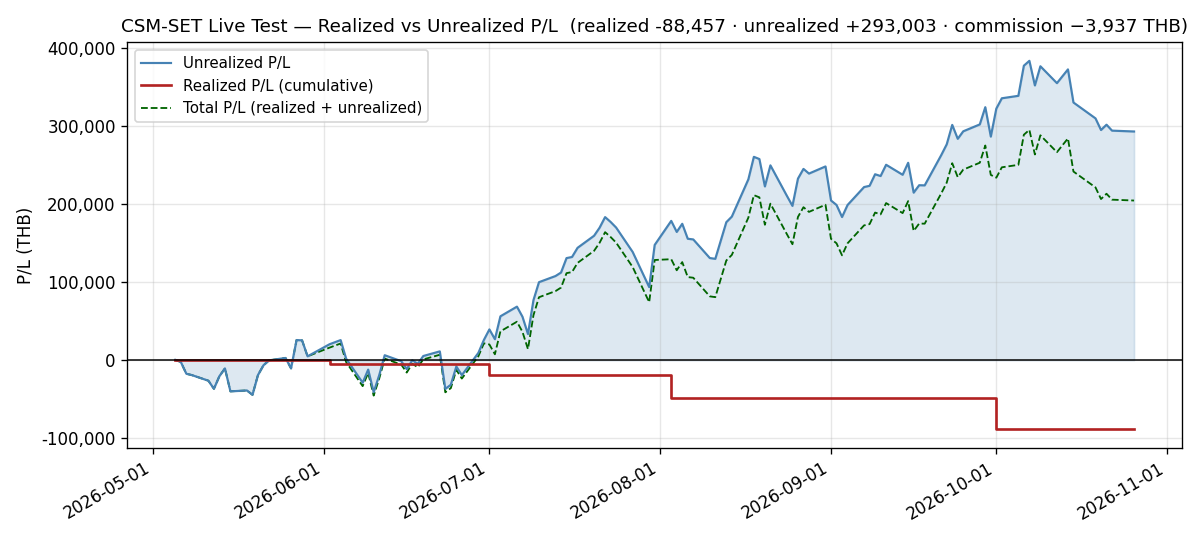
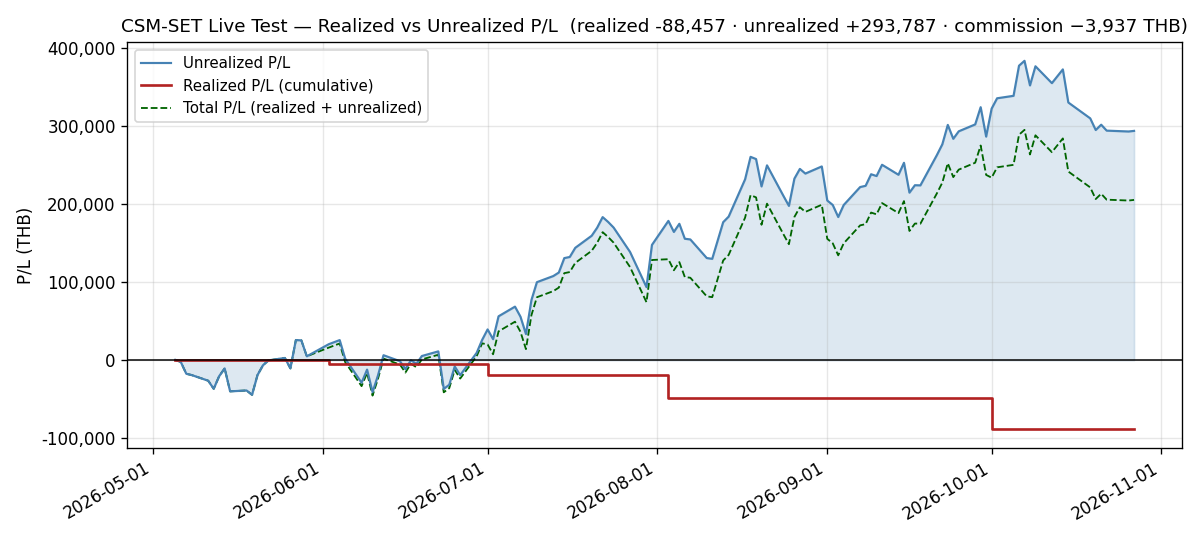
docs(live-test): add daily log for 2026-10-27 — NAV +0.06%, the first registered, not-yet-scored session; EASTW −6.30%, its worst since 2026-06-08
NAV 1,323,719.89 (+784.00, +0.0593%) with no trades against a SET that fell
−0.2540%. It stands 89,764.00 (−6.3505%) below the 2026-10-07 high; Total
Return on NAV is +18.19%. Breadth: 4 up, 3 down, 3 flat.

- EASTW −6.30% to 4.46: its worst session since 2026-06-08 and its lowest close
  since 2026-06-29, both inside its holding. U.PL is +4.52%.
- ETRON's excess widened to 17,838.04 THB, the widest since 2026-10-14.
- The status label is now "registered, not yet scored" (cc7bcb1; the window is
  2026-11-02 to 2026-12-30).
- The registered breaker procedure was run once before the window: NORMAL,
  −6.3505%, trip level 1,272,135.50; a −12% control trips.
- :8100 closed (8307ab3): Risk Note 11 ends its fifty-log carry.

pnl.csv extended to 118 rows. The P/L PNG was regenerated (d55ec0e3 →
bd61f364), the first render under Pillow 13.0.0; the three NAV PNGs are
byte-identical. Checker 389/0; 6 of 6 mutants caught (M5 after adding the
env/mount hash guard).

Claude-Session: https://claude.ai/code/session_01VKyqnmKmz6Hh9ErHRFMhFr

diff --git a/docs/live-test/daily/2026-10-27.md b/docs/live-test/daily/2026-10-27.md
@@ -1,0 +1,299 @@
+# Daily Log — 2026-10-27 (Tuesday)
+
+**As of:** 2026-10-27, Asia/Bangkok
+**Phase:** C — Extended Observation
+**Day:** 119 / 44 trading days remaining in 2026
+**Status:** 🟡 **REGISTERED, NOT YET SCORED.** The forward scoring pre-registration was committed on 2026-10-27, on the operator's go (`reports/2026-10-27-forward-scoring-pre-registration.md`, `cc7bcb1`). Its scored window is **2026-11-02 to 2026-12-30**, measured from the 2026-10-30 close, so **this session lies before it and is not scored**; every earlier figure stays pre-registration history, seen and not scored. **NAV closes at 1,323,719.89 THB, up +784.00 (+0.0593%)** with no trades, and stands **89,764.00 (−6.3505%) below the 2026-10-07 high**. Total Return on NAV is **+18.19%**. Breadth is **4 up, 3 down, 3 flat** against a SET that fell **−0.2540%**. 🔴 **EASTW fell −6.30% to 4.46, its worst session since 2026-06-08 and its lowest close since 2026-06-29, both inside its holding**, and its gain over cost narrowed to **+4.52%**. 🔴 **ETRON's excess widened to 17,838.04 THB, the widest since 2026-10-14.** 🟢 **`:8100` is closed**: the port has been bound to loopback since the 2026-10-27 06:15 BKK recreate.
+
+---
+
+## Execution Summary
+
+**No trades today.** The October rotation was executed at the **2026-10-01 ATO** (SELL MGC, BUY CNT; `configs/live_portfolio.yaml` at `715eeb3`), so the file is unchanged since then and remains valid. Realized P/L for the session is **0.00 THB** and no commission was paid. **Neither end of the band creates a trade, and neither does the sector cap**: both are applied when the book is constructed, and there is no high-water-mark rule. The next rebalance evaluation is **2026-10-30**, three sessions away, and it is **the first evaluation under the 2026-10-27 registration**.
+
+---
+
+## Portfolio Snapshot
+
+> 🟡 **Every figure in this section is REGISTERED, NOT YET SCORED.** The session lies before the scored window. It is produced from the **reconstructed series** (`csm.adapters.hooks._reconstruct_live_equity`, which reprices `configs/live_portfolio.yaml` against `data/processed/prices_latest.parquet`) and reconciled against **`db_gateway.daily_performance`**. Where a number below is quoted from a stored series, the series is named.
+
+`Avg Cost` is the commission-inclusive per-share basis carried from `configs/live_portfolio.yaml` (4-decimal precision); `Cost Basis = shares × Avg Cost`, and `U.PL % = MV / Cost Basis − 1`. Per-symbol values reproduce the broker statement exactly.
+
+| # | Symbol | Shares | Avg Cost | Last Price | Market Value (THB) | Cost Basis (THB) | U.PL % |
+|---|--------|-------:|---------:|-----------:|--------------------:|-----------------:|-------:|
+| 1 | KCE | 2,600 | 39.0655 | 69.75 | 181,350.00 | 101,570.30 | +78.55% |
+| 2 | GUNKUL | 30,800 | 2.9246 | 4.88 | 150,304.00 | 90,077.68 | +66.86% |
+| 3 | INSET | 42,000 | 3.0848 | 4.08 | 171,360.00 | 129,561.60 | +32.26% |
+| 4 | HANA | 3,000 | 35.8070 | 48.25 | 144,750.00 | 107,421.00 | +34.75% |
+| 5 | IRPC | 56,600 | 2.3037 | 2.92 | 165,272.00 | 130,389.42 | +26.75% |
+| 6 | EASTW | 24,000 | 4.2672 | 4.46 | 107,040.00 | 102,412.80 | +4.52% |
+| 7 | EPG | 17,300 | 5.9099 | 6.70 | 115,910.00 | 102,241.27 | +13.37% |
+| 8 | SMT | 20,400 | 5.8097 | 7.60 | 155,040.00 | 118,517.88 | +30.82% |
+| 9 | FORTH | 5,300 | 16.1270 | 14.20 | 75,260.00 | 85,473.10 | −11.95% |
+| 10 | CNT | 18,200 | 3.3456 | 3.08 | 56,056.00 | 60,889.92 | −7.94% |
+
+### Portfolio summary
+
+| Metric | Value |
+|--------|-------|
+| Total Cost Basis | 1,028,554.97 THB |
+| Total Market Value | 1,322,342.00 THB |
+| Unrealized P/L | +293,787.03 THB (+28.56%) |
+| Realized P/L (today) | **0.00 THB** |
+| Realized P/L (cumulative, since inception) | **−88,456.67 THB** |
+| Commission paid (cumulative) | **−3,936.97 THB** |
+
+### Account summary
+
+| Metric | Value |
+|--------|-------|
+| Remaining Cash | 1,377.89 THB |
+| Total NAV | 1,323,719.89 THB |
+| Total Return on NAV | +18.19% |
+
+> **Cost-basis note:** Total Cost Basis is unchanged at **1,028,554.97 THB** since the 2026-10-01 rotation, and the reconciliation delta against Σ per-symbol (`shares × avg_cost`, 4-dp) is **0.00 THB**.
+>
+> ⚠ **Above/below cost: 8 up / 2 down, unchanged**, with only **FORTH** and **CNT** below. 🔴 **EASTW's +4.52%** is its lowest since 2026-08-03 (4,627.20 THB above cost; it goes below cost at **4.2672, −4.32%**); **GUNKUL's +66.86%** is its lowest since 2026-09-16 and **EPG's +13.37%** its lowest since 2026-10-21. 🟢 **SMT's +30.82%** and **IRPC's +26.75%** are their highest since 2026-10-14, **HANA's +34.75%** its highest since 2026-10-22, and **FORTH's −11.95%** its highest since 2026-10-08.
+>
+> **Dispersion narrowed to 90.50pp** (KCE +78.55% to FORTH −11.95%), from 94.22pp, **the narrowest since 2026-08-07**: the leader KCE was unchanged and the laggard FORTH gained **3.72pp** of cost.
+>
+> **Total P/L check:** realized + unrealized = −88,456.67 + 293,787.03 = **+205,330.36 THB**, up from +204,546.36 by exactly the +784.00 session move.
+
+---
+
+## Day-over-Day Change (vs Monday October 26)
+
+| Symbol | Oct 26 Close | Oct 27 Close | Change | Change % | MV Contribution (THB) |
+|--------|-------------:|-------------:|-------:|---------:|----------------------:|
+| SMT | 7.35 | 7.60 | +0.25 | +3.40% | +5,100.00 |
+| FORTH | 13.60 | 14.20 | +0.60 | +4.41% | +3,180.00 |
+| IRPC | 2.88 | 2.92 | +0.04 | +1.39% | +2,264.00 |
+| HANA | 47.50 | 48.25 | +0.75 | +1.58% | +2,250.00 |
+| KCE | 69.75 | 69.75 | 0.00 | 0.00% | 0.00 |
+| INSET | 4.08 | 4.08 | 0.00 | 0.00% | 0.00 |
+| CNT | 3.08 | 3.08 | 0.00 | 0.00% | 0.00 |
+| EPG | 6.80 | 6.70 | -0.10 | -1.47% | -1,730.00 |
+| GUNKUL | 4.98 | 4.88 | -0.10 | -2.01% | -3,080.00 |
+| EASTW | 4.76 | 4.46 | -0.30 | -6.30% | -7,200.00 |
+| **Total** | | | | **+0.06%** | **+784.00** |
+
+**Breadth: 4 up, 3 down, 3 flat.**
+
+> The `Change %` on the Total row is the **market-value** change (+784.00 / 1,321,558.00 = +0.0593%). The NAV change (+784.00 / 1,322,935.89) is also **+0.0593%**: the two agree to four decimals today, because cash is only 1,377.89 of the NAV denominator.
+
+**The risers' +12,794.00 outweighed the fallers' −12,010.00.**
+
+- **Risers:**
+  - **SMT +3.40% (+5,100.00)**, its best session since 2026-10-14, at its highest close since 2026-10-14;
+  - **FORTH +4.41% (+3,180.00)**, its best since 2026-10-06, at its highest since 2026-10-08;
+  - **IRPC +1.39% (+2,264.00)**, its third straight rise, at its highest since 2026-10-14;
+  - **HANA +1.58% (+2,250.00)**, its best since 2026-10-21, at its highest since 2026-10-22.
+- **Unchanged:** **KCE at 69.75**, **INSET at 4.08** and **CNT at 3.08**, three flat names for the first time since 2026-10-19.
+- **Fallers:**
+  - **EASTW −6.30% (−7,200.00)**: its worst session since 2026-06-08 and its lowest close since 2026-06-29. It entered the book at the 2026-06-02 ATO, so both are inside its holding;
+  - **GUNKUL −2.01% (−3,080.00)**, its worst since 2026-10-08, at its lowest since 2026-09-16;
+  - **EPG −1.47% (−1,730.00)**, its worst since 2026-10-15, at its lowest since 2026-10-21.
+
+**The book rose +0.0593% against a SET that fell −0.2540%**, a **+0.3133pp** difference. That is a same-session arithmetic result, not a performance comparison (Market Context).
+
+---
+
+## Market Context
+
+| Indicator | Value | Source |
+|-----------|-------|--------|
+| SET Index | 1,575.02 | tvkit (TradingView) |
+| SET Open / High / Low | 1,585.14 / 1,586.61 / 1,572.19 | tvkit |
+| SET 200-day SMA | 1,508.6505 | tvkit (TradingView) |
+| Regime Estimate | BULL | SET +4.40% above SMA200 |
+
+> ⚠ **This is context, NOT a benchmark comparison, and it must not be read as one.**
+>
+> - **Different price bases.** `SET:SET` is a **price index**; the strategy series above is priced on **dividend-adjusted** bars (since `e04a292`, 2026-08-09). The difference is one-sided in the strategy's favour, and it is not small: measured 2026-09-11 over 2024-03-19 → 2026-09-10, the dividend adjustment is worth **+12.09 percentage points** on this universe, roughly **+4.8%/yr**.
+> - **Different windows.** The engine's own benchmark loader is given **no date bounds**. It compares **600 index points**, from 2024-05-07 in today's panel and a start that moves forward one session per session, against a strategy series that starts at the 2026-10-01 `entry_date`.
+> - **No alpha, excess return or outperformance figure is computed anywhere in this log.** The 2026-10-27 registration measures tracking error against this index only inside the scored window, and labels it a risk metric (§5).
+
+---
+
+## Regime State
+
+- **Detected regime:** BULL — SET (1,575.02) is above SMA200 (1,508.6505) by +4.3993%
+- **SMA200 position:** 1,508.6505 — SET closing at 1,575.02
+- **3-month return:** −4.31% (window-sensitive — see Notes)
+- **No regime-driven action.** The regime filter is evaluated at the month-end rebalance, not intra-month. The next evaluation is **2026-10-30**. Under the 2026-10-27 registration the index EMA100 overlay is **not applied**, and its condition is reported at each evaluation (registration §4).
+
+**The SET path from the 2026-09-08 high reads 1,621.89 → 1,617.89 → 1,615.07 → 1,604.52 → 1,591.07 → 1,578.66 → 1,562.73 → 1,583.34 → 1,584.15 → 1,598.03 → 1,604.44 → 1,610.70 → 1,602.58 → 1,607.63 → 1,602.37 → 1,594.30 → 1,559.01 → 1,563.91 → 1,571.62 → 1,576.45 → 1,582.22 → 1,584.63 → 1,570.61 → 1,577.65 → 1,571.74 → 1,575.88 → 1,573.01 → 1,571.72 → 1,554.94 → 1,556.09 → 1,562.67 → 1,579.03 → 1,575.02**.
+
+- **Today:** a **−4.01 point, −0.2540%** session, the index's worst since 2026-10-20. It closed at its lowest since 2026-10-22, **−2.8898%** below the 2026-09-08 high.
+- **Range:** **14.42 points**, against 20.63 the prior session. The index opened at 1,585.14, above the prior close, reached 1,586.61, and closed 11.59 points off that high.
+- **Cushion fell 4.7728% → 4.3993%, a −0.3735pp step**: the largest one-session narrowing since 2026-10-20, leaving the cushion its narrowest since 2026-10-22. SMA200 rose again to **1,508.6505** (+1.5512).
+- **A BULL→BEAR crossing needs the index 66.37 points lower**, a further −4.21% at today's SMA200.
+
+The 3-month figure fell from −3.66% to −4.31%, its start bar moving from 2026-07-17 (1,639.04) to 2026-07-20 (1,646.00).
+
+---
+
+## Sector Concentration
+
+Groupings are those of the 2026-10-01 rotation (CONS for CNT, SET-official) and are unchanged today; percentages are directly comparable to the prior session for every sleeve.
+
+| Sector | Market Value (THB) | % of NAV | Limit | Status |
+|--------|--------------------:|---------:|-------|--------|
+| Energy & Utilities (ENERG) | 422,616 | 31.9264% | 35% | OK — 40,685.96 THB of headroom |
+| Electronic Components (ETRON) | 481,140 | 36.3476% | 35% | 🔴 **OVER — 17,838.04 THB, accepted known violation** |
+| ICT | 246,620 | 18.6308% | 35% | OK |
+| Construction Materials (CONMAT) | 115,910 | 8.7564% | 35% | OK |
+| Construction Services (CONS) | 56,056 | 4.2347% | 5% floor | 🔴 **UNDER — 10,129.99 THB, accepted known violation** |
+
+🔴 **ETRON's excess widened to 17,838.04 THB, its widest since 2026-10-14**, from 10,762.44 on 2026-10-26.
+
+- It rose **+0.5341pp to 36.3476%**, its highest weight since 2026-10-14.
+- The sleeve's market value rose 7,350.00 (SMT +5,100.00, HANA +2,250.00, KCE unchanged) while the cap rose only 274.40 with NAV.
+- **It widened by gaining value, not by a trade.** [[TK-0279]]
+
+🔴 **CNT's gap widened to 10,129.99 THB, its widest since 2026-10-22**, from 10,090.79.
+
+- CNT was unchanged at 3.08. The gap grew by **exactly the 39.20** by which the floor rose with NAV.
+- **CONS fell −0.0025pp to 4.2347%**, its lowest since 2026-10-22.
+- **CNT clears at 3.6659, +19.02%.** [[TK-0279]]
+
+**The other sleeves:**
+
+- **ENERG fell −0.6248pp to 31.9264%**, its lowest since 2026-10-14. EASTW (−7,200.00) and GUNKUL (−3,080.00) outweighed IRPC (+2,264.00).
+- **ICT rose +0.2293pp to 18.6308%** on FORTH, with INSET unchanged; its highest since 2026-10-21.
+- **CONMAT fell −0.1359pp to 8.7564%** on EPG; its lowest since 2026-10-21.
+- The two large sleeves hold **68.2740% of NAV** together.
+
+**At the ceiling end, KCE remains the largest position:**
+
+| Name | Weight | Inside the 15% ceiling | Goes over at |
+|---|---:|---:|---|
+| KCE | 13.7000% | 17,207.98 THB | 77.5364 (+11.16%) |
+| INSET | 12.9453% | 27,197.98 THB | 4.8418 (+18.67%) |
+
+KCE leads INSET by 9,990.00 THB, unchanged because both were flat. 🟢 **At the floor end, FORTH is 5.6855%**, its highest weight since 2026-09-30. It is 9,074.01 THB above the 5% floor and goes under at **12.3978 (−12.69%)**.
+
+---
+
+## Risk Notes
+
+1. 🟡 **SCORING PRE-REGISTERED 2026-10-27 — operator's go.** The registration is `reports/2026-10-27-forward-scoring-pre-registration.md`, committed as `cc7bcb1`.
+   - **Scored window:** 2026-11-02 to 2026-12-30, 41 sessions by the banked calendar, anchored on the 2026-10-30 close.
+   - **Thresholds:** PLAN.md's eight criteria and six primary metrics, unchanged.
+   - **EMA100 (D1):** registered **per holding**. A holding whose evaluation close is below its own EMA100 is sold at the ATO; the index overlay is not applied.
+   - **Amendments:** every item marked *CHOSEN HERE* is open to operator amendment until the **2026-10-30 evaluation, three sessions away**.
+   - **This session is registered, not yet scored.**
+2. **NAV rose +784.00 (+0.0593%) to 1,323,719.89** (`daily_performance`).
+   - It stands **89,764.00 (−6.3505%) below the 2026-10-07 high**.
+   - It is **28,491.00 below the book's 2026-10-01 post-rotation value** (1,352,210.89, `equity_curve`).
+   - Total Return on NAV is **+18.19%**.
+3. 🔴 **ACCEPTED KNOWN VIOLATION — ETRON 36.3476%, 17,838.04 THB over the 35% cap** (operator decision D2), **its widest excess since 2026-10-14**. It widened from 10,762.44 without a trade, as SMT and HANA rose. **No action is recommended and none has been sized.** Under the registration, bounds bind at construction on the names being traded (§8). [[TK-0279]]
+4. 🔴 **ACCEPTED KNOWN VIOLATION — CNT 4.2347%, 10,129.99 THB under the 5% floor and the whole CONS sleeve** (D2), **its widest gap since 2026-10-22**. CNT was unchanged, and the floor rose 39.20 with NAV. CNT clears at **3.6659 (+19.02%)**. [[TK-0279]]
+5. 🔴 **EASTW −6.30% to 4.46: its worst session since 2026-06-08 and its lowest close since 2026-06-29**, both inside its holding (entered at the 2026-06-02 ATO).
+   - Its U.PL fell to **+4.52%**, the lowest since 2026-08-03. It goes below cost at **4.2672 (−4.32%)**.
+   - **The prior close is unrestated in today's panel** (4.76, as published on 2026-10-26), so today's fetch carried no vendor back-adjustment for EASTW.
+   - The "since" dates are measured on the panel's dividend-adjusted series.
+   - **No exit rule acts intra-month.** The registered rules evaluate EASTW at **2026-10-30** like every other holding: rank floor, buffer, and its own EMA100.
+6. 🟢 **`equity_curve` and `daily_performance` agree on the new day**, both **1,323,719.89**. The 2026-10-01 rows still differ by 2,385.81 by design (post-trade against pre-trade).
+7. 🟢 **Today's `daily_return` (+0.0593%) equals this log's headline.**
+   - ⚠ `cumulative_return` is anchored to the 2026-10-01 `entry_date` and reads **−2.11%** against a true **+18.19%**; its anchor is the post-rotation value of Risk Note 2.
+   - `combined_drawdown` reads **−6.41%**: the maximum drawdown inside the post-`entry_date` window, unchanged since it was set on 2026-10-26.
+   - Both are the documented truncations, not new defects.
+8. 🟢 **Circuit breaker — the design rule is clear, and the registered procedure was run once before the window.**
+   - **Procedure:** `DrawdownCircuitBreaker` with the recorded parameters (60 sessions, −10% trip, −5% recovery over 21 sessions), run on the `daily_performance` NAV series. It returns **NORMAL**, with a rolling drawdown of **−6.3505%**.
+   - **Trip level:** **1,272,135.50**, which is 90% of the 2026-10-07 peak. NAV sits **51,584.39** above it.
+   - **Positive control:** a synthetic −12% final close tripped it to TRIPPED at 0.20 equity.
+   - **The 1,064,000 THB line** (5% below `starting_nav`) has NAV **+259,719.89** (19.62%) above it. Under the registration it is a reporting line and carries no action (§6 #8).
+9. 🟢 **The refresh ran clean.**
+   - Attempt 1 recovered all 201 universe symbols (`requested=201 recovered=201 still_failing=0`) in **135.475s**, and **no symbol failed** (`failures=0`, `held_symbols_failed=0`).
+   - **The container was recreated at 2026-10-27 06:15 BKK** to close `:8100` (Risk Note 11). Image, environment and mounts are unchanged, compared by hash. It has not restarted since, and the 18:00 firing ran on schedule.
+10. 🟢 **The uncredited dividend total holds at 8,927.00 THB**: KCE 1,560.00, INSET 2,100.00, MGC 2,208.00, FORTH 795.00, IRPC 2,264.00.
+    - That is **0.67% of NAV** and **4.35%** of the +205,330.36 total P/L.
+    - There is still no dividend-accrual path in the book. The registration leaves dividends uncredited in the scored series and reports them beside each score (§8).
+11. 🟢 **INFRA — CLOSED: `:8100` is bound to loopback.** This closes the item that fifty consecutive logs carried.
+    - The compose file publishes `127.0.0.1:8100:8000` since csm-set `8307ab3`, deployed by the 2026-10-27 06:15 BKK recreate.
+    - The listener is `127.0.0.1:8100` only. The LAN address is refused, while another service's port answers from the LAN (the positive control).
+    - `CSM_API_KEY` is still absent and `CSM_PUBLIC_MODE=false`, so the API is unauthenticated for anything on this host. Containers on `quant-network` reach it by name on `:8000`, which the change did not touch.
+12. ⚠ **DOC — the `csm-set-daily-log` skill's `daily_return` guidance remains stale.**
+    - Its Step 3 still calls the field *"an open defect, not yet fixed in code"*; **it was fixed 2026-09-02**.
+    - Today `daily_return` reads **+0.0593%** and agrees with this log's headline exactly.
+    - **Thirty-third log to carry this.**
+13. **Open decisions — answered for the scored window only, by the registration's §8.**
+
+    | Decision | Registered for the window |
+    |---|---|
+    | EMA100 | per holding |
+    | Bands | bind at construction, on the names being traded |
+    | Sizing | current proceeds-plus-cash practice (`fix-notional-not-shares`) |
+    | Price history | the published NAV, frozen at publication |
+    | Dividends | not credited, reported beside each score |
+
+    The wider questions stay open where they are filed ([[TK-0279]], [[TK-0570]], the event reports).
+
+---
+
+## Notes
+
+- **Scheduled refresh completed via APScheduler with zero failures.**
+  - `"Scheduled daily_refresh completed"` at **2026-10-27T11:02:18Z** (18:02 BKK).
+  - It was the 18:00 cron firing (`cron[... day_of_week='mon-fri', hour='18', minute='0']`, started 11:00:00Z), not a manual `POST /api/v1/scheduler/run/daily_refresh`.
+  - Receipt: `symbols_fetched=211, failures=0, duration_seconds=135.475, held_symbols_fetched=10, held_symbols_failed=0, retry_attempts_used=0, index_fetched=true`, corroborated by `results/.tmp/last_refresh.json`.
+  - The held phase ended `requested=10 recovered=10 still_failing=0` at 11:00:17Z.
+  - The next run is scheduled for **2026-10-28 18:00 +07**.
+- **The container was recreated at 2026-10-27 06:15 BKK.**
+  - `Created` 2026-10-26T23:15:19Z, `StartedAt` 23:15:37Z, `RestartCount` 0. `FinishedAt` is unset (0001-01-01) because this container has never stopped; the registration asks for it from 2026-11-02 and it is recorded from today.
+  - Image `e71f1e0b9d6c`, unchanged. The 2026-10-27 dependency-lock update (`059c009`) is not in the running image, which was not rebuilt.
+  - The scheduler started at 23:16:10Z, and the holiday poll ran 30 seconds later and has completed every firing since.
+  - The host has not rebooted since 2026-10-06 (`uptime -s` 2026-10-06 10:46:02).
+- **`SET:THCOM` was fetched with 600 bars again.**
+- **The price panel and the prior log agree on all ten names**, so **nothing was restated**.
+- **The panel's row count fell 912 → 911.** Every row still carries a 09:55 Bangkok stamp, the column count is unchanged at **211**, and no session date is duplicated.
+- **Row-integrity checks pass.** `db_csm_set.equity_curve` holds **exactly one row per trading day at `00:00:00+00`** (118 rows, 118 dates, none off midnight), and today's row equals `daily_performance.total_value`.
+- **`configs/live_portfolio.yaml` is unchanged** since the 2026-10-01 rotation (`715eeb3`).
+- **The P/L identity holds and its residual is unchanged.** `realized_cum + unrealized − (NAV − starting_nav)` = −88,456.67 + 293,787.03 − 203,719.89 = **1,610.47 THB**, the value it stepped to at the 2026-10-01 rotation.
+- **Every figure was verified rather than asserted.**
+  - Σ position market value equals Total Market Value exactly (1,322,342.00).
+  - **Total NAV (1,323,719.89) equals `db_gateway.daily_performance.total_value` to the satang.**
+  - Σ (shares × price change) equals the market-value change (+784.00) exactly.
+  - The sector table sums to Total Market Value exactly.
+  - Σ per-symbol cost basis matches Total Cost Basis with a **0.00** delta, and the position count is 10.
+  - All money arithmetic used `Decimal` with explicit half-up rounding, and so did SMA200:
+
+    | Name | Weight | Distance | Level |
+    |---|---:|---|---|
+    | ETRON | 36.3476% | 17,838.04 THB over the cap | — |
+    | CNT | 4.2347% | 10,129.99 THB under a 66,185.99 floor | clears at 3.6659 |
+    | FORTH | 5.6855% | — | under at 12.3978 |
+    | KCE | 13.7000% | — | over at 77.5364 |
+    | INSET | 12.9453% | — | over at 4.8418 |
+- **Realized P/L and commission ledger — both unchanged, no trades today.** Realized cumulative **−88,456.67 THB** (2026-06-02 −4,351.87 · 2026-07-01 −14,964.06 · 2026-08-03 −29,775.45 · 2026-10-01 −39,365.29). Commission cumulative **−3,936.97 THB**.
+- **Capital events to date, unchanged.** `starting_nav` 1,120,000 after 1,000,000 → 1,100,000 (2026-06-04, +100,000) → 1,120,000 (2026-08-03, +20,000). The 2026-10-01 rotation added no capital.
+- **Every superlative was computed, and each names its window.**
+
+  | Claim | Window | Source |
+  |---|---|---|
+  | Best-, worst-, highest- and lowest-since dates of the named stocks; U.PL readings; ETRON, ENERG, ICT, CONMAT and FORTH weight readings; the dispersion | since 2026-08-03 | all 57 prior published logs; for prices, the panel from 2026-08-03 |
+  | EASTW's session and its low close | since its 2026-06-02 entry | the panel |
+  | CNT's gap, CONS's weight | the breach that began 2026-10-01 | published logs |
+  | NAV figures, the drawdown, the post-rotation value | full series | `db_gateway.daily_performance`, `db_gateway.portfolio_snapshot`, `db_csm_set.equity_curve` |
+  | Index figures | bars fetched back to 2024-09-03 | tvkit |
+- **3-month return figure is window-sensitive.** −4.31% is measured over the trailing 66 bars from today's close (start bar 2026-07-20, 1,646.00) and moves materially with the start bar (Regime State). The regime estimate does not use it.
+- **Follow-ups for the next session (Wednesday 2026-10-28 18:00 +07).**
+
+  | | Item | Level |
+  |---|---|---|
+  | (a) | ETRON against the 35% cap | 17,838.04 THB over |
+  | (b) | CNT against the 5% floor | clears at 3.6659 |
+  | (c) | the ceiling | KCE over at 77.5364, INSET over at 4.8418 |
+  | (d) | FORTH against the 5% floor | under at 12.3978 |
+  | (e) | EASTW against its cost | 4.2672 |
+  | (f) | the regime cushion | 66.37 points above a crossing |
+  | (g) | operator amendments to the registration | before the 2026-10-30 evaluation |
+
+  **The five follow-ups from 2026-10-26 are closed above:** (a) Risk Note 3, (b) Risk Note 4, (c) and (d) Sector Concentration, (e) Regime State.
+- **Calendar.** 2026-10-27 was a trading session.
+  - The banked SET holiday calendar is `results/.tmp/set_holidays.json`, read at `captured_at 2026-10-27T09:46:40Z`, its last successful capture.
+  - It lists the next 2026 closures as **2026-12-07** and **2026-12-10**.
+  - The October evaluation, October's last trading day, is **2026-10-30**.
+  - No trading hours are stated anywhere in this log.
+- Data fetched via tvkit (TradingView, free tier): all 10 held-symbol prices from the 18:00 BKK scheduled-cron refresh; SET Index context anchored explicitly to the 2026-10-27 bar. ⚠ **The vendor back-adjusts a symbol's entire history on an ex-dividend date**, so any prior-session price quoted here is the vendor's *current* view of that session and not necessarily what was published at the time.

diff --git a/docs/live-test/graphs/README.md b/docs/live-test/graphs/README.md
@@ -3,7 +3,7 @@
 _🟢 **All four PNGs are on ONE date — the September month-end, 2026-09-30.** The three **NAV** charts
 (`equity_curve`, `drawdown`, `monthly_returns`) were regenerated on 2026-09-30 from `nav_actual.csv` /
 `nav_twr.csv` extended to **102 points** (2026-05-04 → 2026-09-30). `pnl_realized_unrealized.png` is newer:
-regenerated on 2026-10-26 from `pnl.csv` (**117 rows**, through 2026-10-26; its newest realized step is the 2026-10-01 rotation's). ⚠ **The September rows of the two NAV CSVs
+regenerated on 2026-10-27 from `pnl.csv` (**118 rows**, through 2026-10-27; its newest realized step is the 2026-10-01 rotation's). ⚠ **The September rows of the two NAV CSVs
 come from `db_gateway.daily_performance`, not `equity_curve`** — IRPC's 2026-09-09 restatement rewrote the
 `equity_curve` rows it would otherwise have supplied; see the 2026-09-30 History entry. `pnl.csv` is built
 from the daily logs' figures (the un-restated `daily_performance` basis), so it does not agree with
@@ -241,14 +241,30 @@ restatement has rewritten `equity_curve` rows inside the month being appended, *
 | `monthly_returns.png` | May **+0.33%** · Jun **+1.44%** · Jul **+9.53%** · Aug **+5.68%** · Sep **+2.90%** (no flow in September, so the TWR and actual-NAV figures agree) |
 | **August bar is the TWR figure** | **+5.68%**, NOT the reported +7.40% and NOT the ex-injection +5.77%. Feeding `nav_actual.csv` instead reproduces the documented failure mode — **Jun +11.62%** and Aug +7.40% |
 | June bar vs the June review | must read **+1.44%**, not +11.62% |
-| `pnl_realized_unrealized.png` *(the 2026-10-26 PNG, through 10-26)* | realized **−88,456.67** · unrealized **+293,003.03** · commission **−3,936.97** THB; the realized line is **flat except at 2026-06-02, 2026-07-01, 2026-08-03 and 2026-10-01** — **four** steps. *(The 2026-10-22 PNG read the same realized and commission with unrealized +294,101.03 at 116 points; the 2026-10-21 PNG read the same realized and commission with unrealized +301,696.03 at 115 points; the 2026-10-20 PNG read the same realized and commission with unrealized +294,904.03 at 114 points; the 2026-10-19 PNG read the same realized and commission with unrealized +309,815.03 at 113 points; the 2026-10-15 PNG read the same realized and commission with unrealized +330,143.03 at 112 points; the 2026-10-14 PNG read the same realized and commission with unrealized +372,572.03 at 111 points; the 2026-10-12 PNG read the same realized and commission with unrealized +354,949.03 at 110 points; the 2026-10-09 PNG +376,567.03 at 109; the 2026-10-08 PNG +352,021.03 at 108; the 2026-10-07 PNG +383,551.03 at 107; the 2026-10-06 PNG +377,303.03 at 106; the 2026-10-05 PNG +338,709.03 at 105; the 2026-10-02 PNG +335,559.03 at 104; the 2026-10-01 PNG +322,278.03 at 103.)* *(The 2026-08-31 PNG read:* realized **−49,091.38** · unrealized **+248,232.35** · commission **−3,735.16** THB; the realized line is **flat except at 2026-06-02, 2026-07-01 and 2026-08-03** — **three** steps.) *(The superseded 2026-08-28 render showed −49,091.38 / +239,078.35 at 79 points; the 2026-08-27 one showed −49,091.38 / +245,069.35 at 78 points; the 2026-08-26 one showed −49,091.38 / +232,605.35 at 77 points; the 2026-08-25 one showed −49,091.38 / +197,671.35 at 76 points; the 2026-08-24 one showed −49,091.38 / +210,441.35 at 75 points; the 2026-08-21 one showed −49,091.38 / +249,619.35 at 74 points; the 2026-08-20 one showed −49,091.38 / +222,599.35 at 73 points; the 2026-08-19 one showed −49,091.38 / +257,693.35 at 72 points; the 2026-08-18 one showed −49,091.38 / +260,527.35 at 71 points; the 2026-08-17 one showed −49,091.38 / +231,713.35 at 70 points; the 2026-08-14 one −49,091.38 / +183,951.35 at 69 points; the 2026-08-12 one −49,091.38 / +129,844.35 at 67 points; the 2026-08-01 one −19,315.93 / +147,665.89 / −3,052.51 and only two steps.)* |
-| `pnl.csv` last row *(the CSV and the P/L PNG are in sync — see the header)* | 2026-10-26: realized **−88,456.67** · unrealized **+293,003.03** · total **+204,546.36** · commission **3,936.97** THB; **117 rows**, matching `equity_curve`'s 117 **in row count only** *(↻ this row read 2026-08-31 / 80 rows until 2026-10-02: the September daily runs extended the CSV without updating it; it is updated with each session's History entry since)* — the values diverge historically after the KCE, INSET, MGC *and* FORTH restatements (see the header caveat) |
+| `pnl_realized_unrealized.png` *(the 2026-10-27 PNG, through 10-27)* | realized **−88,456.67** · unrealized **+293,787.03** · commission **−3,936.97** THB; the realized line is **flat except at 2026-06-02, 2026-07-01, 2026-08-03 and 2026-10-01** — **four** steps. *(The 2026-10-26 PNG read the same realized and commission with unrealized +293,003.03 at 117 points; the 2026-10-22 PNG read the same realized and commission with unrealized +294,101.03 at 116 points; the 2026-10-21 PNG read the same realized and commission with unrealized +301,696.03 at 115 points; the 2026-10-20 PNG read the same realized and commission with unrealized +294,904.03 at 114 points; the 2026-10-19 PNG read the same realized and commission with unrealized +309,815.03 at 113 points; the 2026-10-15 PNG read the same realized and commission with unrealized +330,143.03 at 112 points; the 2026-10-14 PNG read the same realized and commission with unrealized +372,572.03 at 111 points; the 2026-10-12 PNG read the same realized and commission with unrealized +354,949.03 at 110 points; the 2026-10-09 PNG +376,567.03 at 109; the 2026-10-08 PNG +352,021.03 at 108; the 2026-10-07 PNG +383,551.03 at 107; the 2026-10-06 PNG +377,303.03 at 106; the 2026-10-05 PNG +338,709.03 at 105; the 2026-10-02 PNG +335,559.03 at 104; the 2026-10-01 PNG +322,278.03 at 103.)* *(The 2026-08-31 PNG read:* realized **−49,091.38** · unrealized **+248,232.35** · commission **−3,735.16** THB; the realized line is **flat except at 2026-06-02, 2026-07-01 and 2026-08-03** — **three** steps.) *(The superseded 2026-08-28 render showed −49,091.38 / +239,078.35 at 79 points; the 2026-08-27 one showed −49,091.38 / +245,069.35 at 78 points; the 2026-08-26 one showed −49,091.38 / +232,605.35 at 77 points; the 2026-08-25 one showed −49,091.38 / +197,671.35 at 76 points; the 2026-08-24 one showed −49,091.38 / +210,441.35 at 75 points; the 2026-08-21 one showed −49,091.38 / +249,619.35 at 74 points; the 2026-08-20 one showed −49,091.38 / +222,599.35 at 73 points; the 2026-08-19 one showed −49,091.38 / +257,693.35 at 72 points; the 2026-08-18 one showed −49,091.38 / +260,527.35 at 71 points; the 2026-08-17 one showed −49,091.38 / +231,713.35 at 70 points; the 2026-08-14 one −49,091.38 / +183,951.35 at 69 points; the 2026-08-12 one −49,091.38 / +129,844.35 at 67 points; the 2026-08-01 one −19,315.93 / +147,665.89 / −3,052.51 and only two steps.)* |
+| `pnl.csv` last row *(the CSV and the P/L PNG are in sync — see the header)* | 2026-10-27: realized **−88,456.67** · unrealized **+293,787.03** · total **+205,330.36** · commission **3,936.97** THB; **118 rows**, matching `equity_curve`'s 118 **in row count only** *(↻ this row read 2026-08-31 / 80 rows until 2026-10-02: the September daily runs extended the CSV without updating it; it is updated with each session's History entry since)* — the values diverge historically after the KCE, INSET, MGC *and* FORTH restatements (see the header caveat) |
 | The August regeneration *(**done** 2026-08-12, **superseded** by the 2026-08-14, 2026-08-17, 2026-08-18, 2026-08-19, 2026-08-20, 2026-08-21, 2026-08-24, 2026-08-25, 2026-08-26, 2026-08-27, 2026-08-28 and then the 2026-08-31 render)* | ✅ satisfied — the current PNG title reads `realized -49,091 · unrealized +248,232 · commission −3,735 THB`, the series ends 2026-08-31 at 80 points, and the realized line steps **three** times. Verified by eye against the rendered image, not only from the generator's stdout |
 | Only ONE PNG may change on a P/L regeneration | ✅ `gen_pnl_chart.py:118` writes `pnl_realized_unrealized.png` and nothing else. Checksum the four PNGs before and after: the three NAV charts must be **byte-identical** and keep their 2026-08-01 mtimes. Verified 2026-08-14, 2026-08-17, 2026-08-18, 2026-08-19, 2026-08-20, 2026-08-21, 2026-08-24, 2026-08-25, 2026-08-26, 2026-08-27, 2026-08-28 and 2026-08-31 — only the P/L PNG's hash moved on all twelve |
 | P/L reconciliation | `realized_cum + unrealized − (NAV − capital)` = **1,610.47** from 2026-10-01 (**1,610.27** for 2026-08-03 → 2026-09-30, **1,609.61** for 2026-05-29 → 2026-07-31), and constant *within* each era; the 2026-10-01 step is **+0.20**, CNT's 4-dp `avg_cost` rounding. A *drifting* residual means a realisation was missed; the one-time **+0.66** step at the rotation is 4-dp `avg_cost` rounding — see above |
 | `commission_cum` | rises **only on the 7 fill dates** (05-05, 06-02, 06-04, 06-05, 07-01, 08-03, **10-01**); a rise on any other day means a non-trading day was credited with a fill |
 
 ## History
+
+**`pnl.csv` extended through 2026-10-27** on 2026-10-27, appending the **2026-10-27** row — one row,
+the fifteenth session of the rotated book. `realized_cum` and `commission_cum` are unchanged (no trade
+since the 2026-10-01 rotation), so the whole movement is the unrealized leg (+293,003.03 →
+**+293,787.03**, a **+784.00** session). `total_pl` (**+205,330.36**) stands 89,764.00 below the
++295,094.36 maximum of 2026-10-07. The reconciliation residual holds at **1,610.47**.
+**`pnl_realized_unrealized.png` was regenerated in the same session**, so the two artifacts end together
+at **118 points**; the four PNGs were checksummed (md5) before and after and the three NAV charts are
+byte-identical (`drawdown` 02a92127…, `equity_curve` 7b1c0816…, `monthly_returns` a661bb50…), with only
+the P/L chart's hash moving (d55ec0e3… → **bd61f364…**). It is the first render under **Pillow 13.0.0**,
+which the 2026-10-27 lock bump (`059c009`) brought into the repository environment; before that commit,
+the committed 2026-10-26 series was rendered under Pillow 13.0.0 in a separate checkout and reproduced
+d55ec0e3… byte for byte. Every point in the series is **pre-registration history — seen, not scored**:
+the forward scoring pre-registration of 2026-10-27
+(`../reports/2026-10-27-forward-scoring-pre-registration.md`) scores only the 2026-11-02 → 2026-12-30
+window, and this session lies before it.
 
 **`pnl.csv` extended through 2026-10-26** on 2026-10-26, appending the **2026-10-26** row — one row,
 the fourteenth session of the rotated book. **There is no row for 2026-10-23**, a closure: the 18:00
